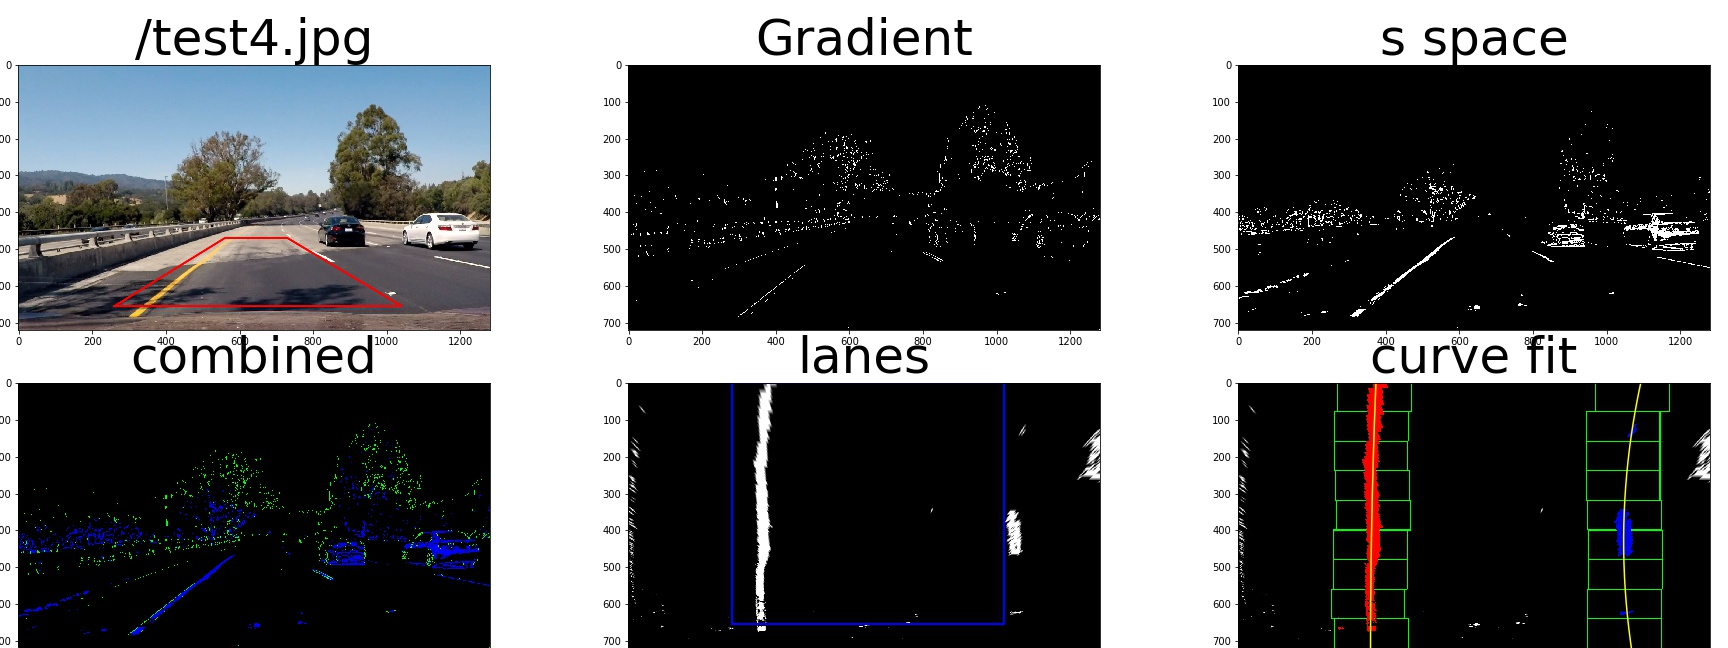
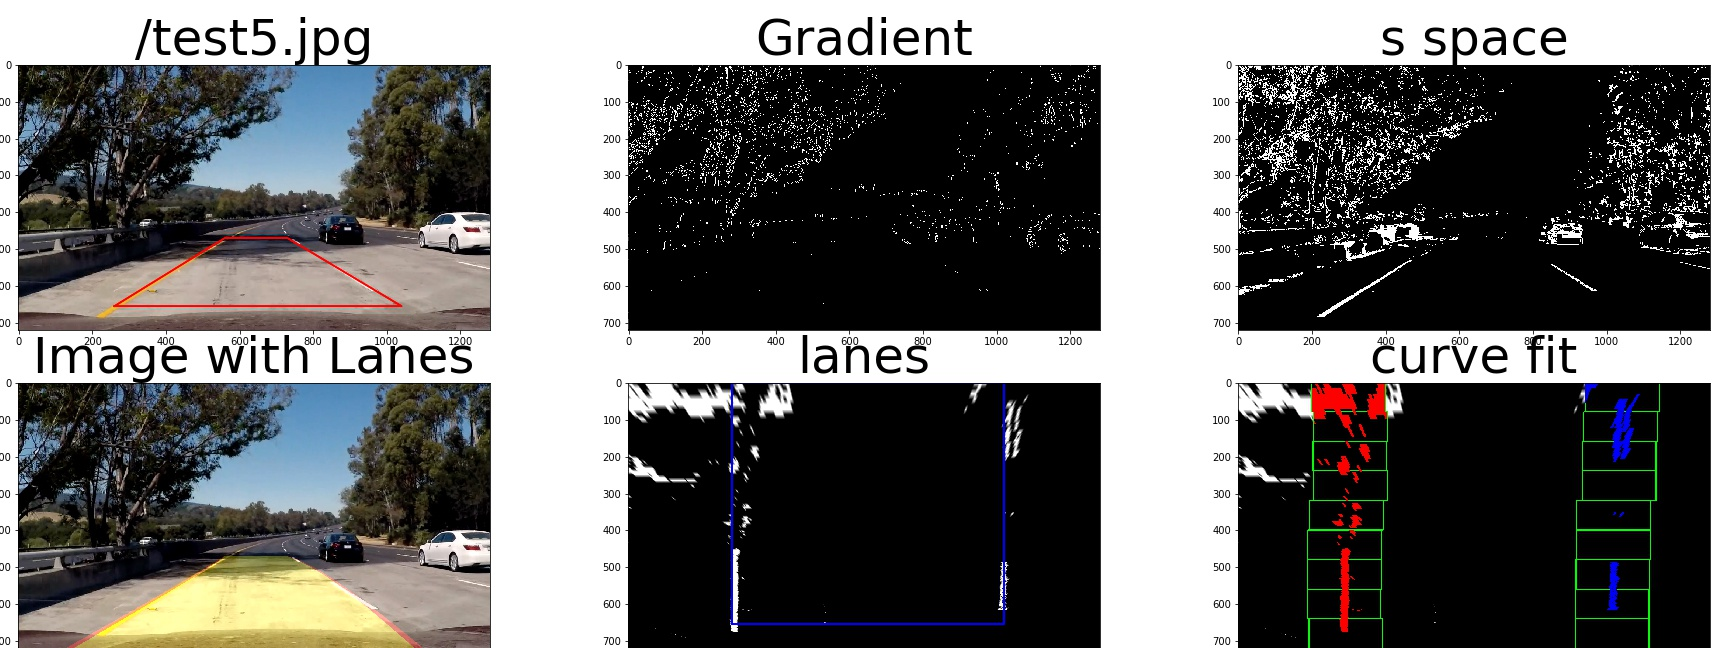
Lanes displayed on original image

diff --git a/simple_lane_lines.py b/simple_lane_lines.py
@@ -1,0 +1,201 @@
+import matplotlib.pyplot as plt
+import matplotlib.image as mpimg
+import numpy as np
+import cv2
+
+def grayscale(img):
+
+    return cv2.cvtColor(img, cv2.COLOR_RGB2GRAY)
+    # Or use BGR2GRAY if you read an image with cv2.imread()
+    # return cv2.cvtColor(img, cv2.COLOR_BGR2GRAY)
+
+
+def canny(img, low_threshold, high_threshold):
+    """Applies the Canny transform"""
+    return cv2.Canny(img, low_threshold, high_threshold)
+
+
+def gaussian_blur(img, kernel_size):
+    # """Applies a Gaussian Noise kernel"""
+    return cv2.GaussianBlur(img, (kernel_size, kernel_size), 0)
+
+
+def region_of_interest(img, vertices):
+    # """
+    # Applies an image mask.
+
+    # Only keeps the region of the image defined by the polygon
+    # formed from `vertices`. The rest of the image is set to black.
+    # `vertices` should be a numpy array of integer points.
+    # """
+    # defining a blank mask to start with
+    mask = np.zeros_like(img)
+
+    # defining a 3 channel or 1 channel color to fill the mask with depending on the input image
+    if len(img.shape) > 2:
+        channel_count = img.shape[2]  # i.e. 3 or 4 depending on your image
+        ignore_mask_color = (255,) * channel_count
+    else:
+        ignore_mask_color = 255
+
+    # filling pixels inside the polygon defined by "vertices" with the fill color
+    cv2.fillPoly(mask, vertices, ignore_mask_color)
+
+    # returning the image only where mask pixels are nonzero
+    masked_image = cv2.bitwise_and(img, mask)
+    return masked_image
+
+
+def cal_y_intercept(x1, y1, x2, y2, slope):
+    # """Function to calculate y-intercept at x=0"""
+    y_intercept = y1 - (slope * x1)
+    return y_intercept
+
+
+def cal_x_intercept(x1, y1, x2, y2, img_height):
+    # """Function to calculate x-intercept at y = image_height(540 pixels)"""
+    slope = find_slope(x1, y1, x2, y2)
+    y_intercept = cal_y_intercept(x1, y1, x2, y2, slope)
+    x_intercept = (img_height - y_intercept)/slope
+    return x_intercept
+
+
+def find_slope(x1, y1, x2, y2):
+    # """Function to determine the slope of a given line"""
+    slope = (y2-y1)/(x2-x1)
+    return slope
+
+
+def separate_lines(lines, img_height, img_width):
+    # """Function to group the lines from Hough transform output to left and right groups based on their slopes"""
+    left_lines = {}
+    right_lines = {}
+    for line in lines:
+        for x1, y1, x2, y2 in line:
+            if 0 < cal_x_intercept(x1, y1, x2, y2, img_height) < img_width:
+                slope = find_slope(x1, y1, x2, y2)
+                if slope < 0:
+                    left_lines[round(slope, 4)] = line
+                else:
+                    right_lines[round(slope, 4)] = line
+    return left_lines, right_lines
+
+
+def line_near_avg_slope(lane_lines):
+    # """In this function, a line whose slope is closer to the average slope of the respective group of lines(left/right) is determined"""
+    slope_data = list(lane_lines.keys())
+    slope_avg = np.mean(slope_data)
+    line_close_to_avg_slope = list(lane_lines.keys())[0]
+    diff_to_avg_slope = abs(line_close_to_avg_slope-slope_avg)
+
+    for key in list(lane_lines):
+        slope_diff = abs(key-slope_avg)
+        if (diff_to_avg_slope >= slope_diff):
+            diff_to_avg_slope = slope_diff
+            line_close_to_avg_slope = key
+    return lane_lines.get(line_close_to_avg_slope)
+
+
+def filter_lines(lane_lines):
+    # """Removing outliners based on slope"""
+    filtered_lines = []
+    slope_data = list(lane_lines.keys())
+    slope_avg = np.mean(slope_data)
+    slope_std = np.std(slope_data)
+
+    for key in list(lane_lines):
+        if (abs(key-slope_avg) > 2*slope_std):
+            lane_lines.pop(key)
+    for key, value in lane_lines.items():
+        filtered_lines.append(value)
+    return lane_lines
+
+
+def find_min_y_value(lines_with_slopes, img_width):
+    # """In this function, minimum y-coordinate among the given lines is determined"""
+    min_y = img_width
+    lines = [values for values in lines_with_slopes.values()]
+    for line in lines:
+        for x1, y1, x2, y2 in line:
+            min_y = min(min_y, y1, y2)
+    return min_y
+
+
+def extrapolate_lane(filtered_lines, img_height):
+    # """In this function, the detemined lane lines are extended from along y-axis from image_height to minimum y-cordinate from the respective groups"""
+    extrapolated_lane = []
+
+    # Calculate the least y-cordinate from the group of lines and thus find the respective y-coordinate
+    line_near_avg = line_near_avg_slope(filtered_lines)
+    min_y = find_min_y_value(filtered_lines, img_height)
+    x_intercept_at_min_y = cal_x_intercept(line_near_avg.item((0, 0)), line_near_avg.item(
+        (0, 1)), line_near_avg.item((0, 2)), line_near_avg.item((0, 3)), min_y)
+
+    # calculating the x-intercept at y = image_height
+    x_intercept = cal_x_intercept(line_near_avg.item((0, 0)), line_near_avg.item(
+        (0, 1)), line_near_avg.item((0, 2)), line_near_avg.item((0, 3)), img_height)
+
+    extrapolated_lane = np.array(
+        [x_intercept, img_height, x_intercept_at_min_y, min_y], np.float32)
+    return extrapolated_lane
+
+
+def draw_filtered_lines(img, img_height, img_width, lines, color=[255, 0, 0], thickness=8):
+    # """
+    # Idea:
+        # find slope for each line and group the lines based on their slopes (slopes in certain range fall in the group)
+        # extrapolate the grouped lines
+    # """
+
+    # Grouping lines
+    left_lines, right_lines = separate_lines(lines, img_height, img_width)
+
+    # Filter to remove the lines that doesn't constitute the lanes and construct single left and right lines
+    left_filtered_lines = filter_lines(left_lines)
+    right_filtered_lines = filter_lines(right_lines)
+
+    # Extraolating the left and right lines until the border of the image (until y = 540-> image_height)
+    if(len(left_filtered_lines) > 0):
+        extrapolated_left_lane = extrapolate_lane(
+            left_filtered_lines, img_height)
+    else:
+        extrapolated_left_lane = []
+
+    if(len(right_filtered_lines) > 0):
+        extrapolated_right_lane = extrapolate_lane(
+            right_filtered_lines, img_height)
+    else:
+        extrapolated_right_lane = []
+
+    extrapolated_lanes = []
+    extrapolated_lanes.append(list(extrapolated_left_lane))
+    extrapolated_lanes.append(list(extrapolated_right_lane))
+
+    if(len(extrapolated_lanes) > 0):
+        for line in extrapolated_lanes:
+            if(len(line) == 4):
+                cv2.line(img, (line[0], line[1]),
+                         (line[2], line[3]), color, thickness)
+
+
+def draw_lines(img, lines, color=[255, 0, 0], thickness=4):
+
+    for line in lines:
+        for x1, y1, x2, y2 in line:
+            cv2.line(img, (x1, y1), (x2, y2), color, thickness)
+
+
+def hough_lines(img, rho, theta, threshold, min_line_len, max_line_gap):
+
+    lines = cv2.HoughLinesP(img, rho, theta, threshold, np.array(
+        []), minLineLength=min_line_len, maxLineGap=max_line_gap)
+    line_img = np.zeros((img.shape[0], img.shape[1], 3), dtype=np.uint8)
+    #draw_lines(line_img, lines)
+    draw_filtered_lines(line_img, img.shape[0], img.shape[1], lines)
+    return line_img
+
+# Python 3 has support for cool math symbols.
+
+
+def weighted_img(img, initial_img, α=0.8, β=1., γ=0.):
+    return cv2.addWeighted(initial_img, α, img, β, γ)
